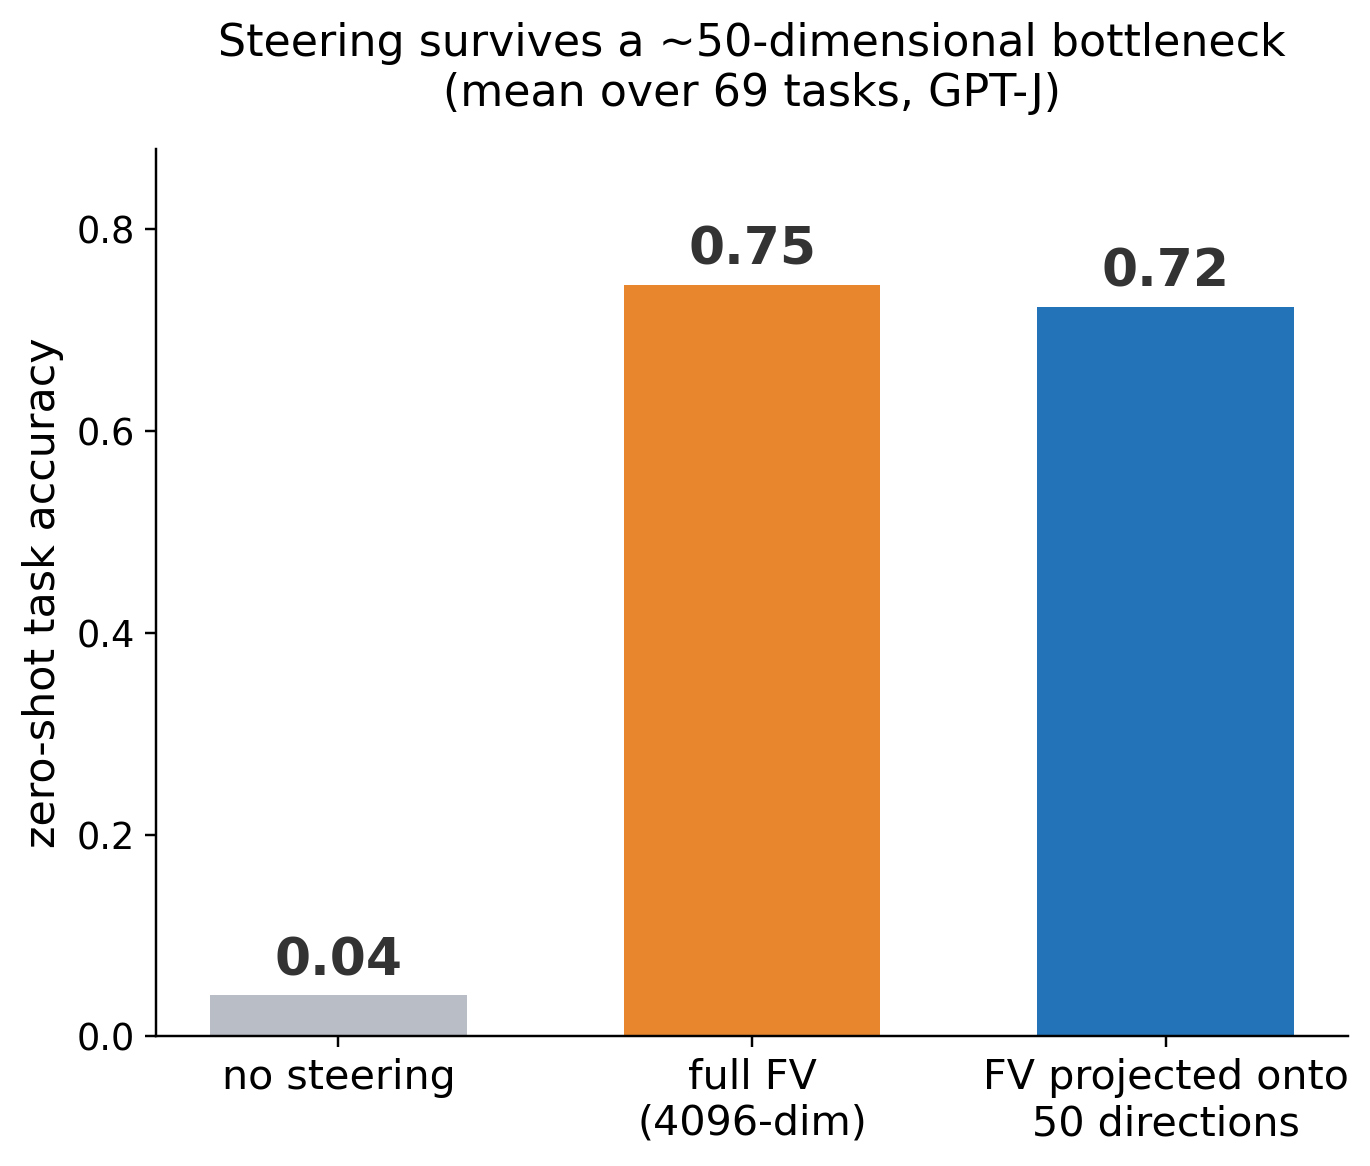
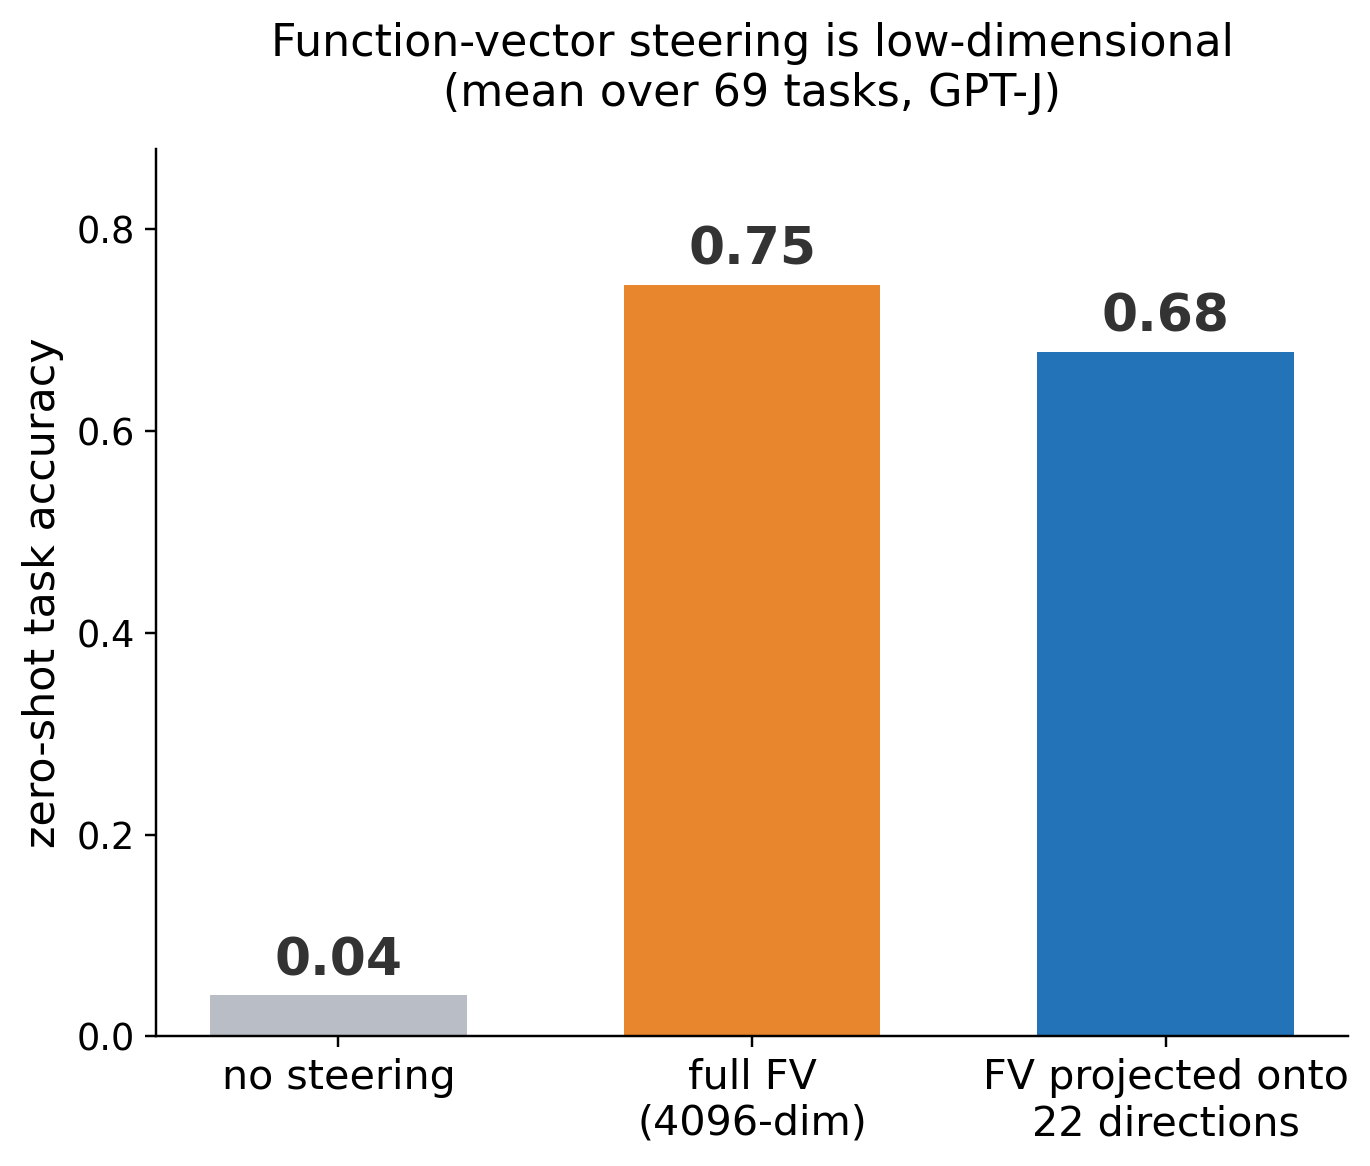
Poster: 3 bars, 22-dim projection at per-task best alpha (0.68); drop 50-dim variant

Changed region(s): [[0.1533, 0.0, 0.9504, 0.0617], [0.7358, 0.2161, 0.9504, 0.3087], [0.7358, 0.9571, 0.7971, 0.988]]

diff --git a/src/eval_scripts/plot_69_poster_lowdim.py b/src/eval_scripts/plot_69_poster_lowdim.py
@@ -23,21 +23,16 @@ DR = TASK69_RUN_DIR / "FV_dimensionality_reduction"
 
 def main():
     s50 = list(csv.DictReader(open(DR / "sparse_all69/pc_sparse_summary.csv")))
-    k22 = {r["task"]: r for r in csv.DictReader(open(DR / "debugging/taskmean_k90_summary.csv"))}
+    a22 = {r["task"]: float(r["zs_best_over_alphas"]) for r in
+           csv.DictReader(open(DR / "debugging/taskmean_k90_alpha_sweep.csv"))}
     base = np.mean([float(r["zs_base"]) for r in s50])
     full = np.mean([float(r["zs_full_best"]) for r in s50])
-    p50 = np.mean([float(r["zs_best"]) for r in s50])
-    p22 = np.mean([float(k22[r["task"]]["zeroshot_acc_top22_taskmean_pcs"]) for r in s50])
+    p22 = np.mean([a22[r["task"]] for r in s50])
 
     variants = [("poster_lowdim.png",
                  [("no steering", base, "#b9bec6"),
                   ("full FV\n(4096-dim)", full, "#e8862e"),
-                  ("FV projected onto\n50 directions", p50, "#2273b8")]),
-                ("poster_lowdim_with22.png",
-                 [("no steering", base, "#b9bec6"),
-                  ("full FV\n(4096-dim)", full, "#e8862e"),
-                  ("50-dim\nprojection", p50, "#2273b8"),
-                  ("22-dim\nprojection", p22, "#7fabd1")])]
+                  ("FV projected onto\n22 directions", p22, "#2273b8")])]
     for fname, bars in variants:
         fig, ax = plt.subplots(figsize=(6.4, 5.4), dpi=220)
         x = np.arange(len(bars))
@@ -52,7 +47,7 @@ def main():
         ax.set_yticks([0, 0.2, 0.4, 0.6, 0.8])
         ax.tick_params(axis="y", labelsize=12)
         ax.spines[["top", "right"]].set_visible(False)
-        ax.set_title("Steering survives a ~50-dimensional bottleneck\n"
+        ax.set_title("Function-vector steering is low-dimensional\n"
                      "(mean over 69 tasks, GPT-J)", fontsize=14.5, pad=14)
         fig.tight_layout()
         fig.savefig(DR / fname, bbox_inches="tight")
